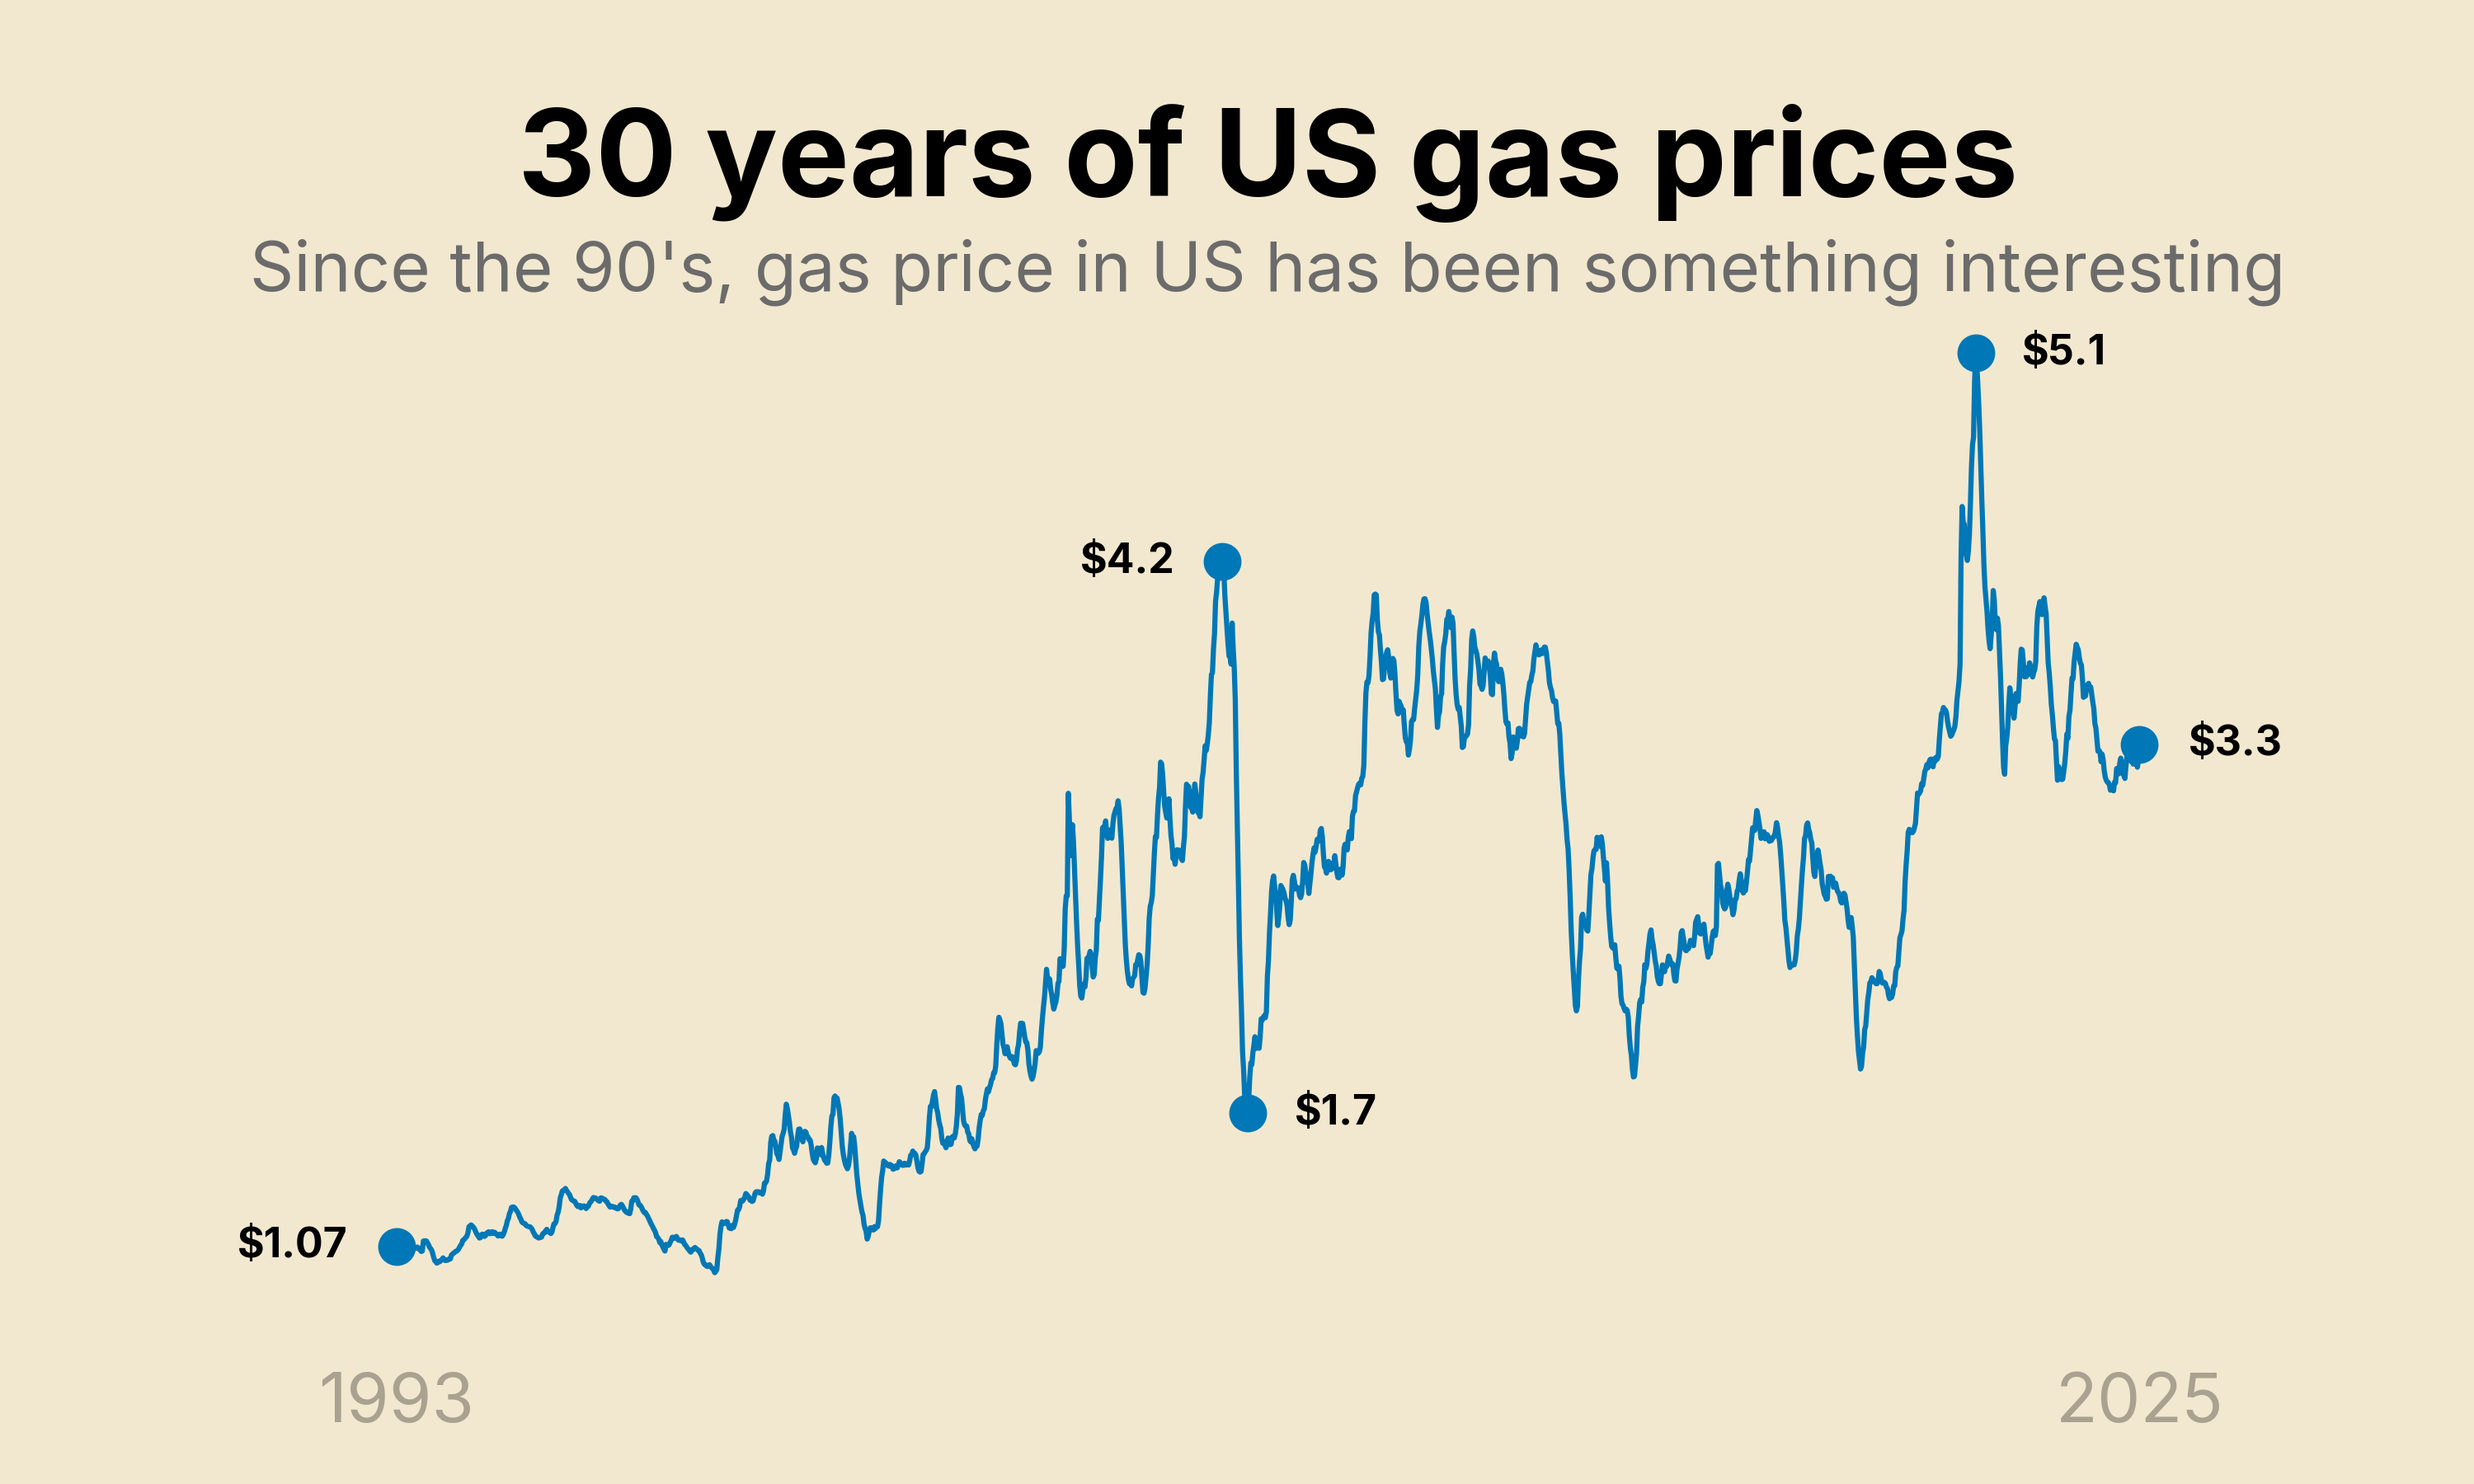
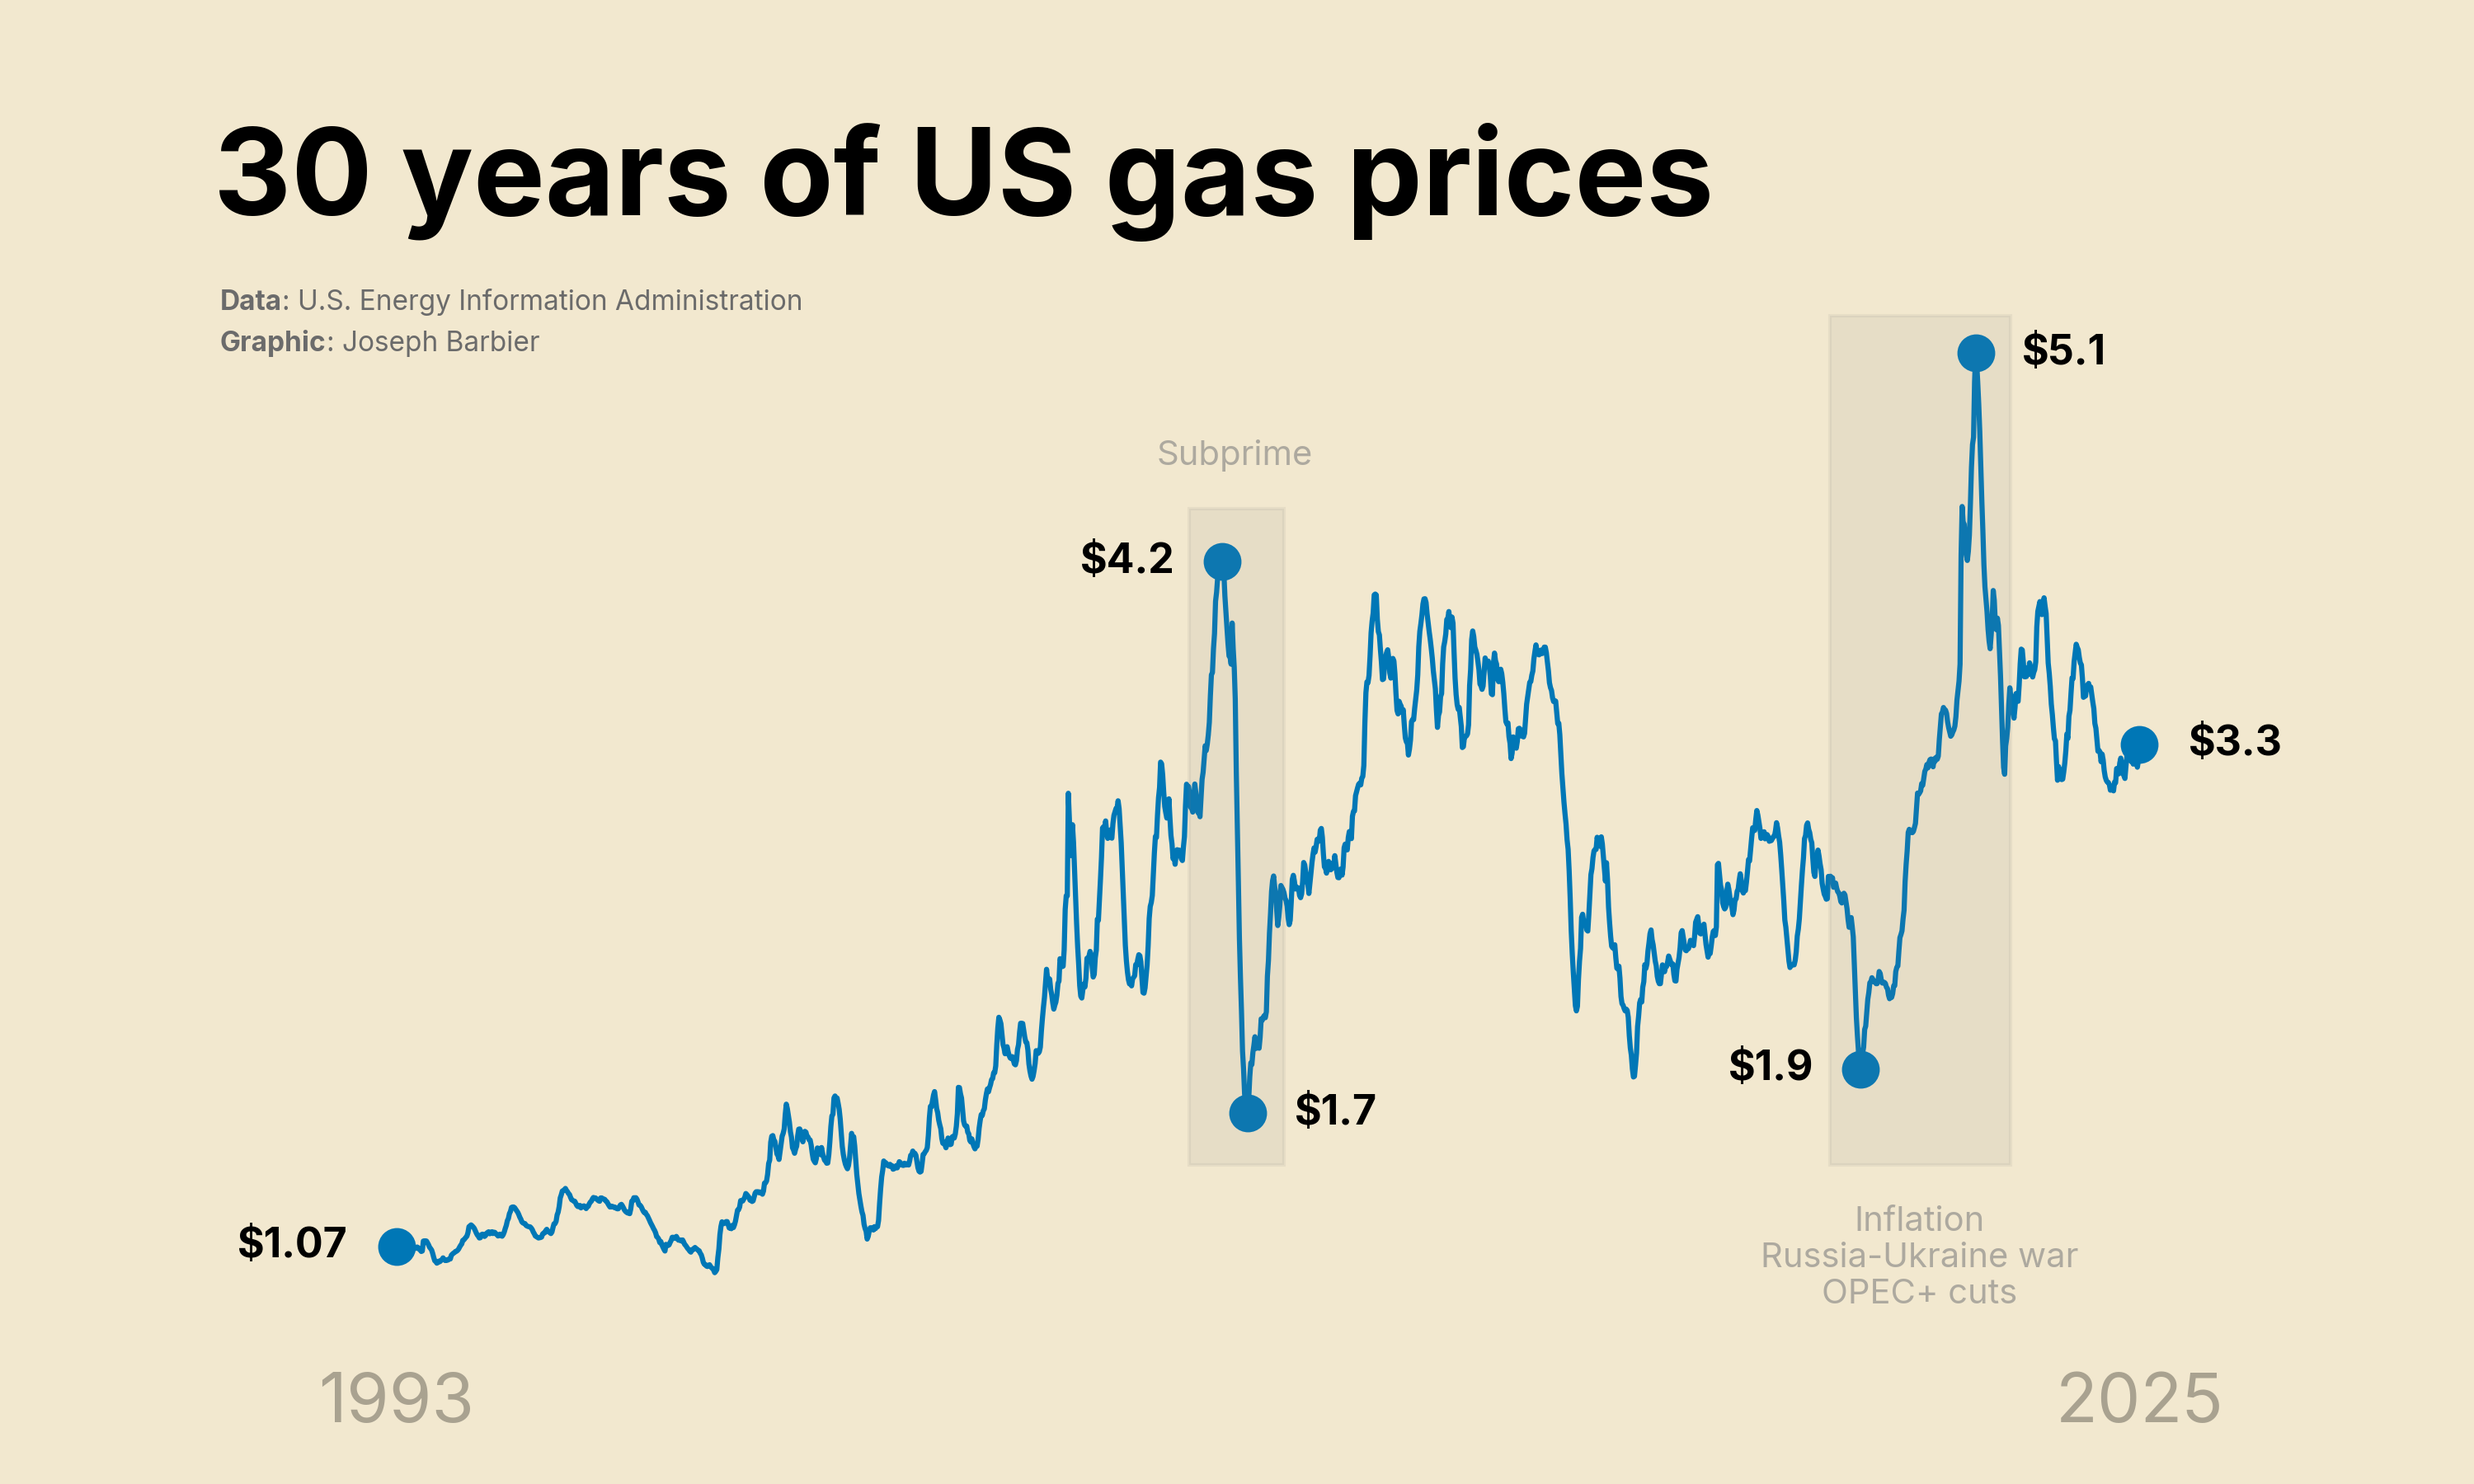
update tidytuesday

diff --git a/src/2025/2025-07-01/main.py b/src/2025/2025-07-01/main.py
@@ -1,8 +1,7 @@
 import pandas as pd
 import matplotlib.pyplot as plt
-from matplotlib.animation import FuncAnimation
 from pyfonts import load_google_font
-from datetime import timedelta
+from highlight_text import ax_text
 
 
 df = pd.read_csv(
@@ -16,6 +15,7 @@ gas = (
     .reset_index(drop=True)
 )
 gas_subprime = gas[(gas["date"] >= "2007-01-01") & (gas["date"] <= "2010-12-31")]
+gas_war = gas[gas["date"] >= "2020-01-01"]
 
 font = load_google_font("Inter")
 boldfont = load_google_font("Inter", weight="bold")
@@ -39,12 +39,14 @@ max_x_suprime = gas_subprime.loc[gas_subprime["price"].idxmax(), "date"]
 min_x_suprime = gas_subprime.loc[gas_subprime["price"].idxmin(), "date"]
 max_y_suprime = gas_subprime["price"].max()
 min_y_suprime = gas_subprime["price"].min()
+min_x_war = gas_war.loc[gas_war["price"].idxmin(), "date"]
+min_y_war = gas_war["price"].min()
 
 ax.plot(gas["date"], gas["price"], lw=1.5, clip_on=False, color=color)
 scatter_args = dict(s=100, clip_on=False, color=color)
 ax.scatter(
-    [first_x, last_x, max_x, max_x_suprime, min_x_suprime],
-    [first_y, last_y, max_y, max_y_suprime, min_y_suprime],
+    [first_x, last_x, max_x, max_x_suprime, min_x_suprime, min_x_war],
+    [first_y, last_y, max_y, max_y_suprime, min_y_suprime, min_y_war],
     **scatter_args,
 )
 f_and_l_args = dict(
@@ -86,29 +88,79 @@ ax.text(
     ha="left",
     **f_and_l_args,
 )
+ax.text(
+    min_x_war - pd.Timedelta(45, "w"),
+    min_y_war,
+    f"${min_y_war:,.1f}",
+    ha="right",
+    **f_and_l_args,
+)
 
 year_args = dict(ha="center", va="top", size=20, font=font, alpha=0.3)
 ax.text(pd.to_datetime(str(first_x)[:10]), 0.5, "1993", **year_args)
 ax.text(pd.to_datetime(str(last_x)[:10]), 0.5, "2025", **year_args)
 
-title_args = dict(ha="center", va="top", transform=ax.transAxes, clip_on=False)
-y = 1.2
+title_args = dict(ha="left", va="top", transform=ax.transAxes, clip_on=False)
+y = 1.18
 ax.text(
-    x=0.5,
+    x=-0.05,
     y=y,
     s="30 years of US gas prices",
     size=35,
     font=boldfont,
     **title_args,
 )
-ax.text(
-    x=0.5,
+ax_text(
+    x=pd.to_datetime("1993-01-01"),
     y=y - 0.14,
-    s="Since the 90's, gas price in US has been something interesting",
+    s="<Data>: U.S. Energy Information Administration\n<Graphic>: Joseph Barbier",
+    highlight_textprops=[{"font": boldfont}, {"font": boldfont}],
     color="#6B6B6B",
-    size=20,
+    size=8,
     font=font,
+    ax=ax,
     **title_args,
+)
+
+ax.axvspan(
+    pd.to_datetime("2007-12-01"),
+    pd.to_datetime("2009-09-01"),
+    ymin=0.1,
+    ymax=0.78,
+    color="grey",
+    alpha=0.1,
+    zorder=10,
+    clip_on=False,
+)
+ax.text(
+    x=pd.to_datetime("2008-10-01"),
+    y=4.6,
+    s="Subprime",
+    font=font,
+    color="grey",
+    ha="center",
+    alpha=0.6,
+)
+
+ax.axvspan(
+    pd.to_datetime("2019-10-01"),
+    pd.to_datetime("2023-02-01"),
+    ymin=0.1,
+    ymax=0.98,
+    color="grey",
+    alpha=0.1,
+    zorder=10,
+    clip_on=False,
+)
+ax.text(
+    x=pd.to_datetime("2021-06-01"),
+    y=1.25,
+    s="Inflation\nRussia-Ukraine war\nOPEC+ cuts",
+    font=font,
+    color="grey",
+    ha="center",
+    va="top",
+    alpha=0.6,
 )
 
 fig.savefig("src/2025/2025-07-01/output.png", dpi=300)
